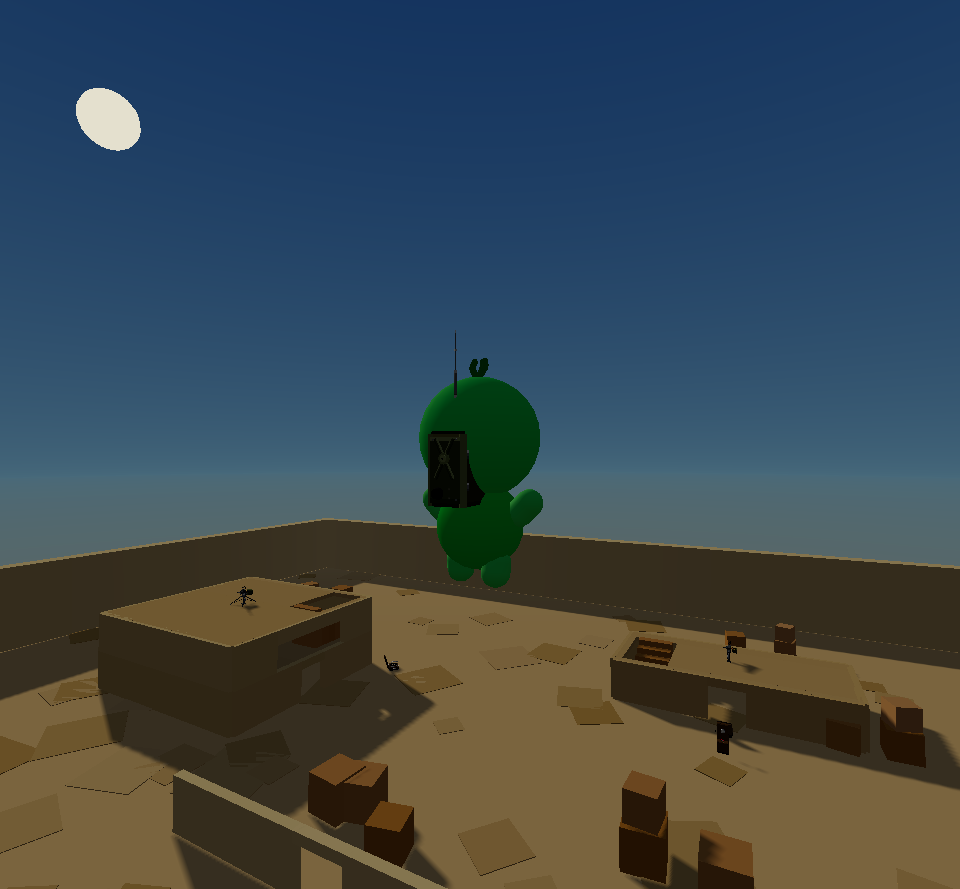
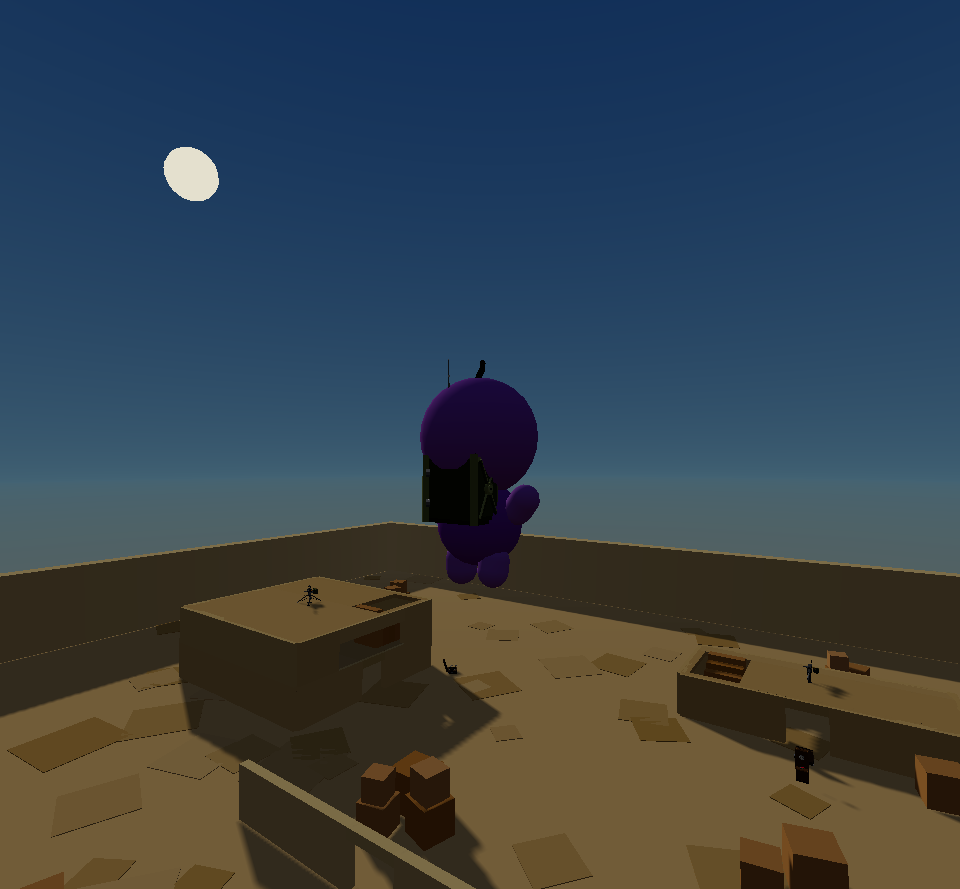
feat(enemies): courier radio — turn + lower + normal-size-only
Owner tweaks on the R-105d courier mount:
- Turned the radio a quarter (R105D_YAW π -> π/2): wide flat side lies across
  the back, X-cross to the side; antenna stays up as the tell.
- Dropped it lower on the back (R105D_Y 0.85 -> 0.65).
- Restricted the courier role to NORMAL-size mobs: makeCourier early-returns
  unless e.type === 'grunt' (scale 1.0), and waves.js only rolls the ~1%
  courier chance on grunt spawns. Verified in-game: grunt gets the radio;
  swarmer/runner (small), brute/titan (big), charger/exploder (explode) do not.

0 console errors. Cache-bust GAME_BUILD only (still v335, unmerged).

diff --git a/src/enemies.js b/src/enemies.js
@@ -21,10 +21,10 @@ const HEADING_LAMBDA = 10; // 1/s heading low-pass — smooths per-frame steerin
 // Courier backpack mount — the registered R-105d radio (authored in METRES,
 // floor-anchored) rides in the enemy mesh's LOCAL space, which def.scale
 // uniformly scales. Tuned against the plush by eye in-game (models/r105d/BUILD.md).
-const R105D_SCALE = 2.0;     // metres → mesh-local; sizes the radio to read as a back-worn pack on the big-headed plush
-const R105D_Y = 0.85;        // mount height on the back (radio is floor-anchored at y=0)
-const R105D_Z = -0.34;       // SET INTO the back — the box sinks into the round body so the panel sits flush/proud, not cantilevered out
-const R105D_YAW = Math.PI;   // X-cross panel + telescopic antenna face outward (the "spot the courier" tell)
+const R105D_SCALE = 2.0;       // metres → mesh-local; sizes the radio to read as a back-worn pack on the big-headed plush
+const R105D_Y = 0.65;          // mount height on the back (radio is floor-anchored at y=0)
+const R105D_Z = -0.34;         // SET INTO the back — the box sinks into the round body so it sits flush, not cantilevered out
+const R105D_YAW = Math.PI / 2; // turned a quarter so the wide flat side lies across the back (X-cross to the side); antenna up = the tell
 
 
 // ---------------------------------------------------------------------------
@@ -361,7 +361,11 @@ export class EnemyManager {
   // then upgrades to the real model the next time it's recycled as a courier.
   // NB: no emissive body-glow — the old teal "spot it" tint read as a night-time
   // green-lighting bug; the modeled radio is a clearer, non-glowing cue.
+  // Only the NORMAL-size plain engendro (`grunt`, scale 1.0) carries the radio —
+  // never the small (swarmer/runner/minitolo) or big (brute/titan) variants, nor
+  // the special explode types — so the pack always sits at the size it's tuned for.
   makeCourier(e) {
+    if (e.type !== 'grunt') return;
     e.courier = true;
     const real = hasModel('r105d');
     if (!e._pack || (e._pack.userData.fallback && real)) {

diff --git a/src/game.js b/src/game.js
@@ -78,7 +78,7 @@ _registerModels();
 // the build the browser actually loaded. GAME_BUILD is the release time (local, to the minute) —
 // bump it together with index.html's ?v= on every deploy.
 const GAME_VERSION = (() => { try { const m = String(import.meta.url).match(/[?&]v=(\d+)/); return m ? 'v' + m[1] : 'dev'; } catch (e) { return 'dev'; } })();
-const GAME_BUILD = '2026-07-01 00:04';
+const GAME_BUILD = '2026-07-01 00:11';
 
 const FIXED_STEP = 1 / 60;              // fixed-timestep sim tick (60 Hz) when this._fixedStep is ON
 const MAX_SUBSTEPS = 5;                 // spiral-of-death guard: cap sim sub-steps per render frame

diff --git a/src/waves.js b/src/waves.js
@@ -151,7 +151,7 @@ export class WaveManager {
     const hpScale = (1 + (n - 1) * 0.16) * this.hpMul;
     const spd = def.speed * Math.min(1 + (n - 1) * 0.025, 1.55) * this.speedMul;
     const e = this.game.enemies.spawn(type, pos, Math.round(def.hp * hpScale), spd);
-    if (chc(0.01)) this.game.enemies.makeCourier(e); // ~1% rare backpack courier → drops a radio
+    if (type === 'grunt' && chc(0.01)) this.game.enemies.makeCourier(e); // ~1% of normal-size grunts → rare backpack courier (drops a radio)
     this.spawned++;
   }
   _spawnBoss(which, pos, hpScale) {

diff --git a/models/r105d/BUILD.md b/models/r105d/BUILD.md
@@ -33,6 +33,7 @@ See `ref/dossier.json` — corner-guard/antenna diameters are photo-proportional
 Wired onto the rare **backpack courier** engendro on branch `feat/courier-radio-r105d`:
 - `src/game.js` `_registerModels()` → `await load('r105d')` (registered at boot alongside the other modelgen props).
 - `src/enemies.js` `makeCourier()` → builds `buildSpec(getSpec('r105d'))` into the enemy mesh's local space via a new `_buildCourierPack(real)` helper; the original procedural canvas pack stays as a fallback during the async-register window, and a pooled enemy that cached the fallback upgrades to the real model on reuse.
-- Mounted on the **back** with the X-cross panel + telescopic antenna facing **outward** (the antenna clears the big plush head — the "spot the courier" tell). Tunables `R105D_SCALE=2.0 / R105D_Y=0.85 / R105D_Z=-0.34 / R105D_YAW=π` (mesh-local; def.scale rides them). **The radio is SET INTO the round back** (z=-0.34, not floated behind) so the panel sits flush/proud instead of cantilevering out — the owner flagged the first pass (z=-0.55) as sticking out wrong; this seats it against the body. Verified flush from back-3/4 + side + front.
+- Mounted on the **back** with the telescopic antenna up (the "spot the courier" tell). Tunables `R105D_SCALE=2.0 / R105D_Y=0.65 / R105D_Z=-0.34 / R105D_YAW=π/2` (mesh-local; def.scale rides them). **The radio is SET INTO the round back** (z=-0.34, not floated behind) so it sits flush instead of cantilevering out — the owner flagged the first pass (z=-0.55) as sticking out wrong. Final owner tweak: turned a quarter (yaw π/2, wide flat side across the back, X-cross to the side) and dropped lower (Y 0.85→0.65). No emissive body-glow (removed — read as a night green-light bug). Verified from back-3/4 + side + front.
+- **Courier is NORMAL-size only:** `makeCourier` early-returns unless `e.type === 'grunt'` (scale 1.0), and `waves.js` only rolls the ~1% courier chance on grunt spawns — so the radio never lands on the small (swarmer/runner/minitolo) or big (brute/titan) variants, nor the explode types (charger/exploder); the pack always sits at the size it's tuned for.
 - `src/admin.js` Asset Viewer entry added for inspection.
 - **In-game verified (Mac/Chrome):** spawned a courier (`enemies.spawn('grunt') → makeCourier`), confirmed the radio reads on the back from behind/side/front with the antenna above the head; 0 console errors; source-built (not live-tuned) placement confirmed after a clean module reload. See `renders/ingame-courier-back.png`.
